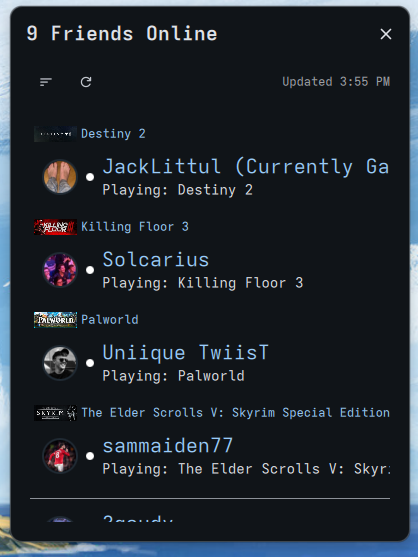
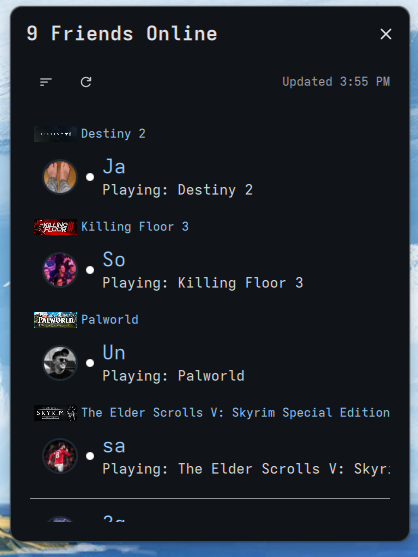
Add Screenshot2/3 to README, update main screenshot
Link the two horizontal-pill screenshots (text toggle off/on) that
were already in the repo but not referenced anywhere.

diff --git a/README.MD b/README.MD
@@ -2,7 +2,9 @@
 A dankbar widget to show the number of friends online and a popout to tell you who!
 
 ## Screenshot
-![Horizontal Layout](./Screenshot.png)
+![Popout](./Screenshot.png)
+
+![Horizontal Pill (text off)](./Screenshot2.png) ![Horizontal Pill (text on)](./Screenshot3.png)
 
 ## Features
 - Sort by status or by user name, with an icon-only sort/refresh toolbar
